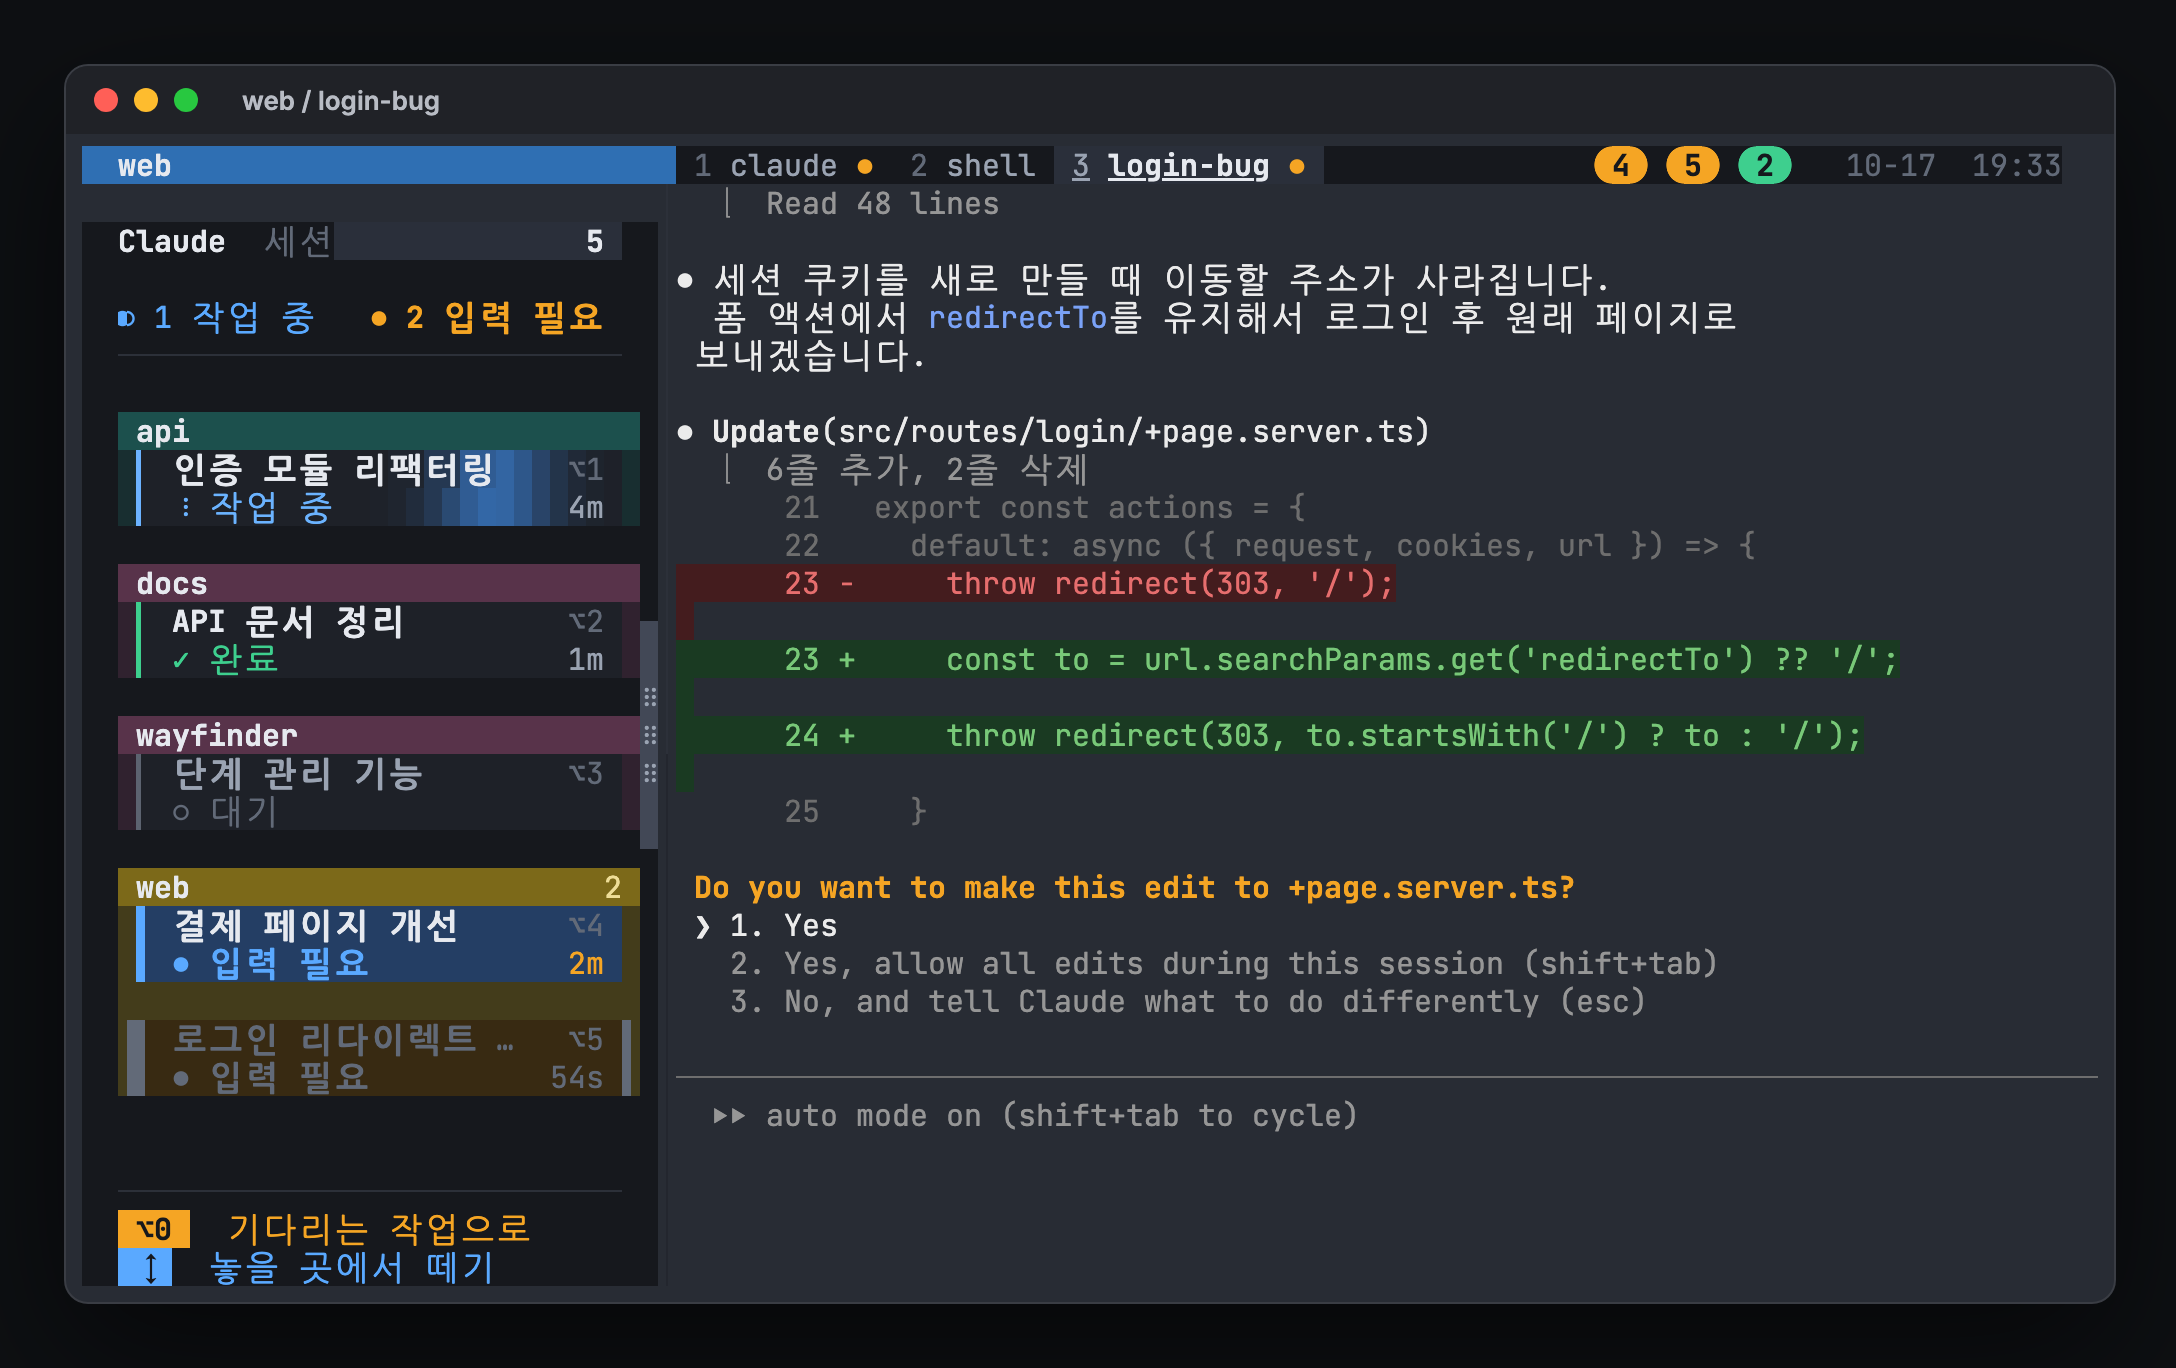
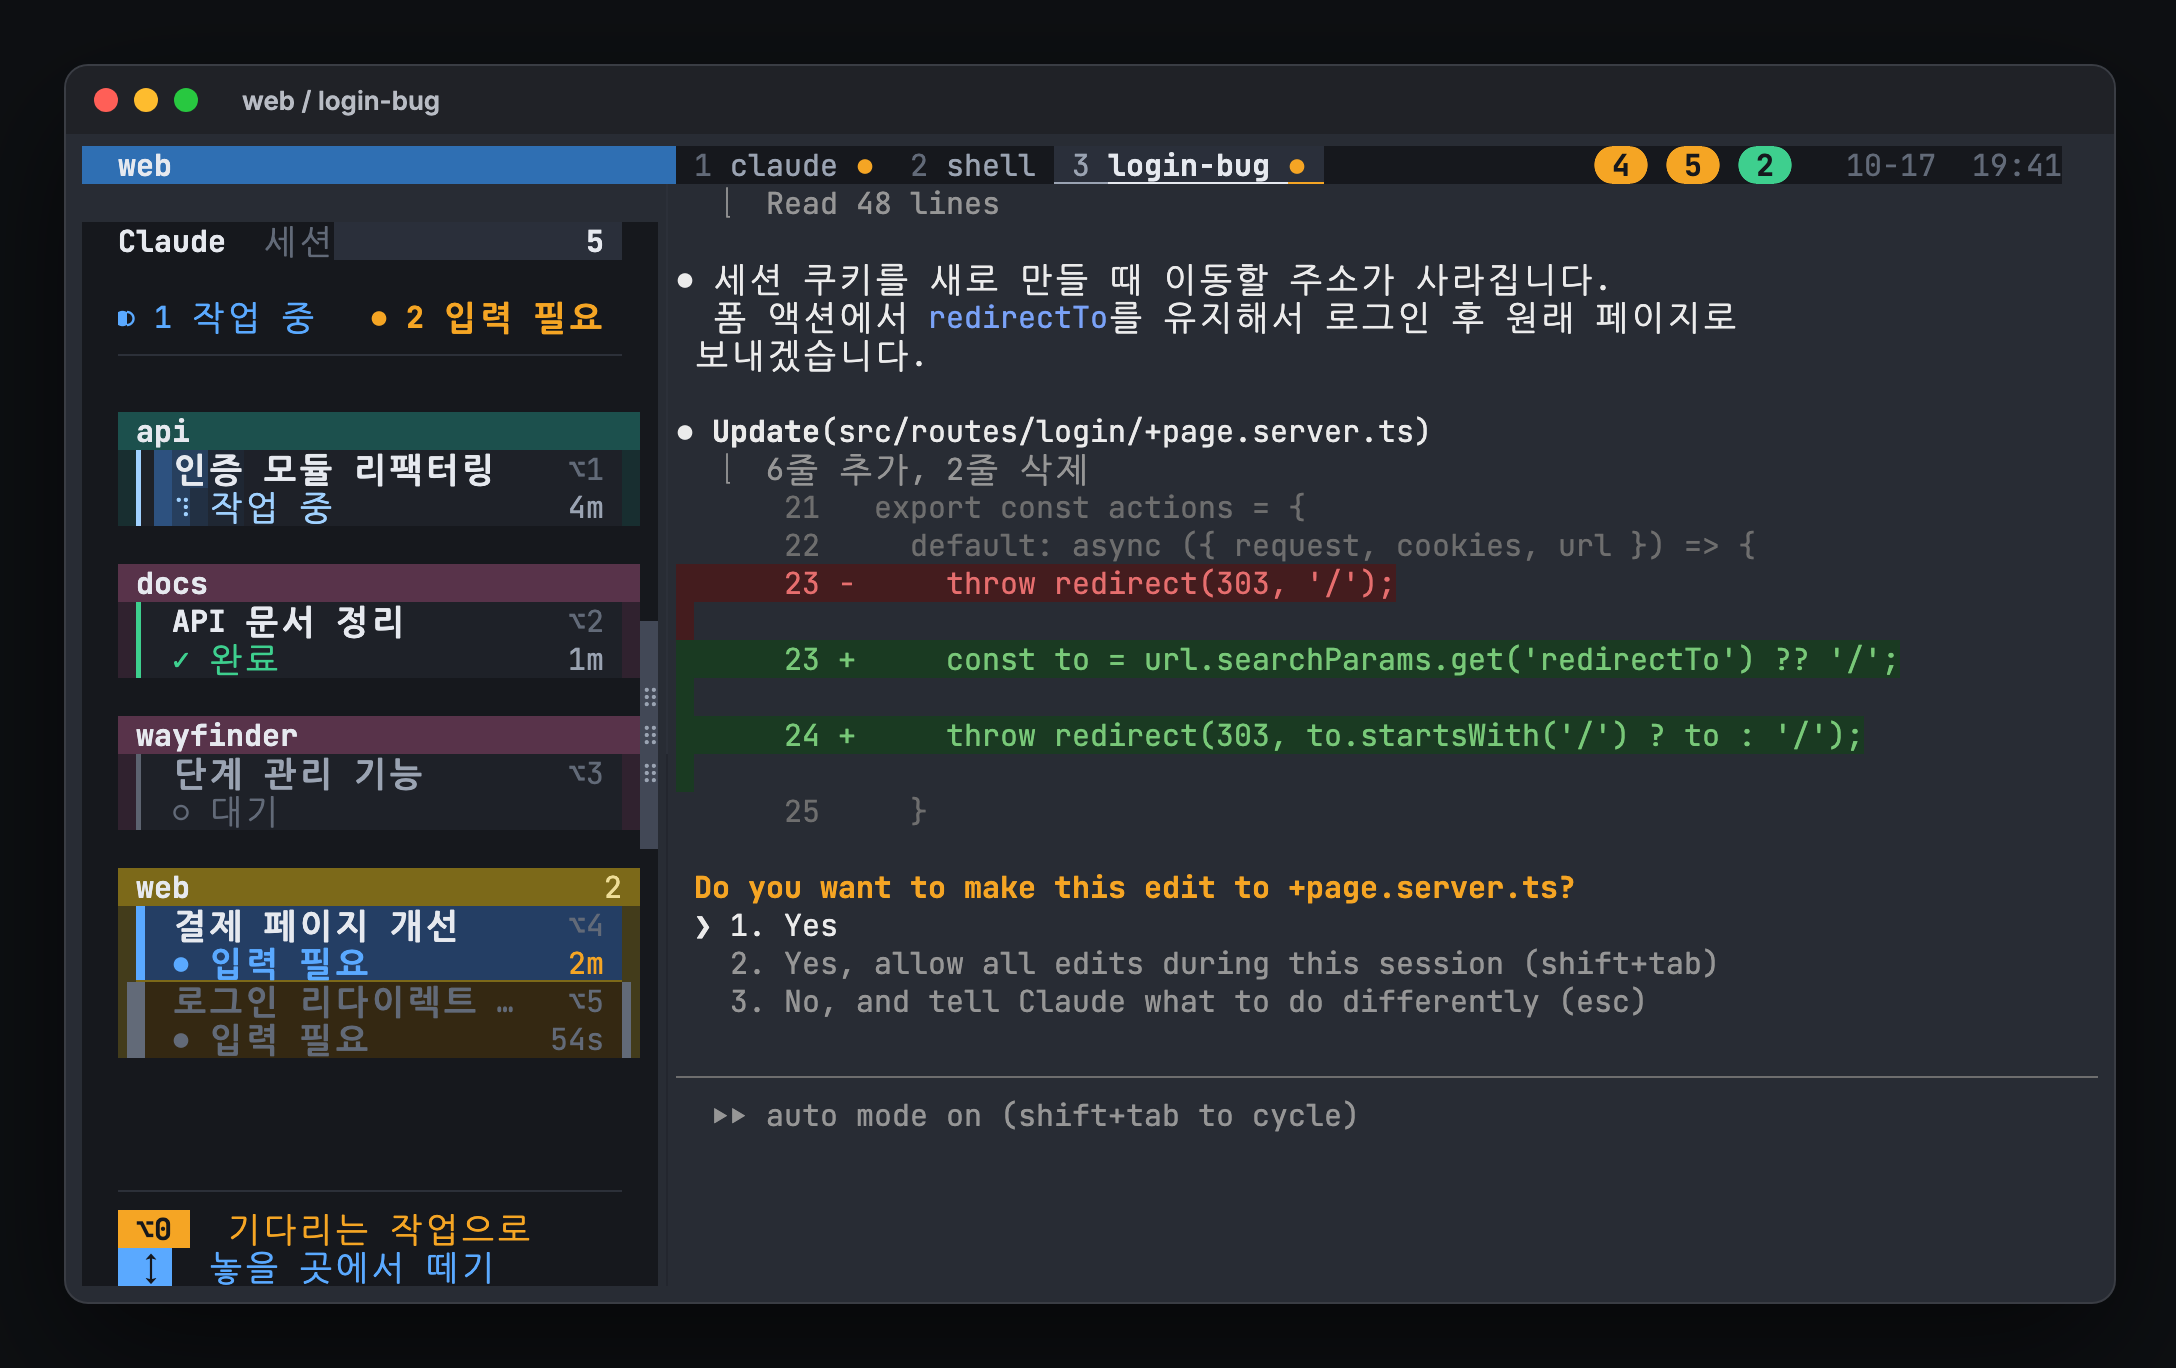
Sidebar: no blank row between cards of a project, a thin line instead
Cards of one project sit together; an underline in the project's header
colour under each card (but the last) tells them apart. The guide mockup
and screenshots follow; ansi2html draws underlines and their colour.

Claude-Session: https://claude.ai/code/session_01DeGU8b5o6dBWL7LV6J71n7

diff --git a/docs/guide.html b/docs/guide.html
@@ -249,11 +249,13 @@ ul { margin: 0; padding-left: 1.2em; display: grid; gap: 4px; max-width: 65ch; }
 .side2 .sum { padding: 8px 12px 8px; display: flex; gap: 12px; border-bottom: 1px solid #2c3039; margin: 0 12px; padding-inline: 0; }
 .side2 .sum .r { color: #5aa9ff; } .side2 .sum .w { color: #f5a524; font-weight: 700; }
 .side2 .bx { background: color-mix(in srgb, var(--h) 12%, #16181d); margin: 10px 12px 0; padding-bottom: 5px; }
+.side2 .bx .cd + .cd { box-shadow: inset 0 1px 0 color-mix(in srgb, var(--h) 30%, #16181d); }
+.side2 .bx .cd + .cd.sel { box-shadow: -4px 0 0 #e1e6f0, 4px 0 0 #e1e6f0, inset 0 1px 0 color-mix(in srgb, var(--h) 30%, #16181d); }
 .side2 .bx.cur { background: color-mix(in srgb, var(--h) 20%, #16181d); }
 .side2 .pj { display: flex; align-items: center; padding: 1px 8px; margin-bottom: 5px; color: #e6e9ef; font-weight: 700; background: color-mix(in srgb, var(--h) 30%, #16181d); }
 .side2 .bx.cur .pj { background: color-mix(in srgb, var(--h) 45%, #16181d); }
 .side2 .pj span { margin-left: auto; color: color-mix(in srgb, var(--h) 40%, #e6e9ef); font-weight: 400; }
-.side2 .cd { margin: 0 8px 5px; display: grid; grid-template-columns: 1fr auto; column-gap: 6px; padding: 3px 8px; background: #1e2128; border-left: 2px solid #5c6370; color: #e6e9ef; }
+.side2 .cd { margin: 0 8px; display: grid; grid-template-columns: 1fr auto; column-gap: 6px; padding: 3px 8px; background: #1e2128; border-left: 2px solid #5c6370; color: #e6e9ef; }
 .side2 .cd .t { font-weight: 700; overflow: hidden; text-overflow: ellipsis; white-space: nowrap; }
 .side2 .cd b { color: #626a78; font-weight: 400; }
 .side2 .cd .a { color: #9aa3b2; }
@@ -379,7 +381,7 @@ ul { margin: 0; padding-left: 1.2em; display: grid; gap: 4px; max-width: 65ch; }
       </div>
       <p><kbd>Option</kbd>+번호를 누르면 그 Claude로 바로 갑니다. 프로젝트가 달라도 한 번에 이동합니다. 사이드바의 타일을 클릭해도 됩니다.</p>
       <p><kbd>Option</kbd>+<kbd>0</kbd>은 가장 오래 기다린 Claude로 갑니다. 주황색 항목이 없으면 끝났는데 아직 안 본 초록색 항목으로 갑니다. 이 키만 반복해서 누르면 기다리는 작업을 차례로 처리할 수 있습니다.</p>
-      <p class="result">작업 중인 카드는 밝은 빛 띠가 계속 훑고 지나가고 스피너가 돕니다. 입력이 필요한 카드는 호박색으로 깜빡입니다. 맨 위 창 목록에서도 작업 중인 창 옆에 스피너가 돕니다. 번호는 프로젝트 이름순으로 매겨지고 작업이 바뀌어도 그대로라서 손에 익습니다. 타일 아랫줄에 상태와 경과 시간이 보여서 무엇을 먼저 볼지 정할 수 있습니다. 각 프로젝트는 프로젝트 색 머리 띠가 달린 상자로 묶입니다. 사이드바를 넓히면 상자가 2열, 3열로 늘어나고, 그래도 세로로 다 들어가지 않으면 카드 사이 빈 줄을 줄이고, 그다음엔 마우스 휠로 스크롤합니다. 위나 아래에 더 있으면 구분선 끝에 ▲ ▼가 보이고, 스크롤 위치는 모든 창이 함께 써서 다른 작업으로 옮겨도 그대로입니다. 사이드바가 거슬리면 <kbd>Ctrl</kbd>+<kbd>A</kbd> 다음 <kbd>b</kbd>로 숨기고 다시 보일 수 있습니다.</p>
+      <p class="result">작업 중인 카드는 밝은 빛 띠가 계속 훑고 지나가고 스피너가 돕니다. 입력이 필요한 카드는 호박색으로 깜빡입니다. 맨 위 창 목록에서도 작업 중인 창 옆에 스피너가 돕니다. 번호는 프로젝트 이름순으로 매겨지고 작업이 바뀌어도 그대로라서 손에 익습니다. 타일 아랫줄에 상태와 경과 시간이 보여서 무엇을 먼저 볼지 정할 수 있습니다. 각 프로젝트는 프로젝트 색 머리 띠가 달린 상자로 묶입니다. 사이드바를 넓히면 상자가 2열, 3열로 늘어나고, 같은 프로젝트의 카드는 빈 줄 없이 프로젝트 색 가는 선으로 나뉩니다. 세로로 다 들어가지 않으면 마우스 휠로 스크롤합니다. 위나 아래에 더 있으면 구분선 끝에 ▲ ▼가 보이고, 스크롤 위치는 모든 창이 함께 써서 다른 작업으로 옮겨도 그대로입니다. 사이드바가 거슬리면 <kbd>Ctrl</kbd>+<kbd>A</kbd> 다음 <kbd>b</kbd>로 숨기고 다시 보일 수 있습니다.</p>
     </div></div>
 
     <div class="st"><div>

diff --git a/docs/guide.en.html b/docs/guide.en.html
@@ -249,11 +249,13 @@ ul { margin: 0; padding-left: 1.2em; display: grid; gap: 4px; max-width: 65ch; }
 .side2 .sum { padding: 8px 12px 8px; display: flex; gap: 12px; border-bottom: 1px solid #2c3039; margin: 0 12px; padding-inline: 0; }
 .side2 .sum .r { color: #5aa9ff; } .side2 .sum .w { color: #f5a524; font-weight: 700; }
 .side2 .bx { background: color-mix(in srgb, var(--h) 12%, #16181d); margin: 10px 12px 0; padding-bottom: 5px; }
+.side2 .bx .cd + .cd { box-shadow: inset 0 1px 0 color-mix(in srgb, var(--h) 30%, #16181d); }
+.side2 .bx .cd + .cd.sel { box-shadow: -4px 0 0 #e1e6f0, 4px 0 0 #e1e6f0, inset 0 1px 0 color-mix(in srgb, var(--h) 30%, #16181d); }
 .side2 .bx.cur { background: color-mix(in srgb, var(--h) 20%, #16181d); }
 .side2 .pj { display: flex; align-items: center; padding: 1px 8px; margin-bottom: 5px; color: #e6e9ef; font-weight: 700; background: color-mix(in srgb, var(--h) 30%, #16181d); }
 .side2 .bx.cur .pj { background: color-mix(in srgb, var(--h) 45%, #16181d); }
 .side2 .pj span { margin-left: auto; color: color-mix(in srgb, var(--h) 40%, #e6e9ef); font-weight: 400; }
-.side2 .cd { margin: 0 8px 5px; display: grid; grid-template-columns: 1fr auto; column-gap: 6px; padding: 3px 8px; background: #1e2128; border-left: 2px solid #5c6370; color: #e6e9ef; }
+.side2 .cd { margin: 0 8px; display: grid; grid-template-columns: 1fr auto; column-gap: 6px; padding: 3px 8px; background: #1e2128; border-left: 2px solid #5c6370; color: #e6e9ef; }
 .side2 .cd .t { font-weight: 700; overflow: hidden; text-overflow: ellipsis; white-space: nowrap; }
 .side2 .cd b { color: #626a78; font-weight: 400; }
 .side2 .cd .a { color: #9aa3b2; }
@@ -379,7 +381,7 @@ ul { margin: 0; padding-left: 1.2em; display: grid; gap: 4px; max-width: 65ch; }
       </div>
       <p><kbd>Option</kbd>+number jumps straight to that Claude, even in another project. Clicking a card does the same.</p>
       <p><kbd>Option</kbd>+<kbd>0</kbd> jumps to the Claude that has waited longest. With nothing amber, it goes to a finished green card you have not seen yet. Press it repeatedly to work through everything that is waiting.</p>
-      <p class="result">Running cards have a light band sweeping across and a spinner. Cards that need input pulse amber. The top window list shows a spinner next to running windows too. Numbers follow project names and stay put when states change, so they are easy to remember. The second line of each card shows the state and elapsed time, so you can decide what to look at first. Each project is a box with a header band in the project's color. Widen the sidebar and the boxes go into 2 or 3 columns; when they still do not fit, the blank rows between cards go first, then the list scrolls with the mouse wheel. ▲ ▼ at the end of a rule show more above or below, and every window shares the scroll position, so going to another task keeps the list where it was. To hide the sidebar, press <kbd>Ctrl</kbd>+<kbd>A</kbd> then <kbd>b</kbd>; press again to bring it back.</p>
+      <p class="result">Running cards have a light band sweeping across and a spinner. Cards that need input pulse amber. The top window list shows a spinner next to running windows too. Numbers follow project names and stay put when states change, so they are easy to remember. The second line of each card shows the state and elapsed time, so you can decide what to look at first. Each project is a box with a header band in the project's color. Widen the sidebar and the boxes go into 2 or 3 columns; cards of one project are split by a thin line in its color, with no blank row; when they do not fit, the list scrolls with the mouse wheel. ▲ ▼ at the end of a rule show more above or below, and every window shares the scroll position, so going to another task keeps the list where it was. To hide the sidebar, press <kbd>Ctrl</kbd>+<kbd>A</kbd> then <kbd>b</kbd>; press again to bring it back.</p>
     </div></div>
 
     <div class="st"><div>

diff --git a/docs/preview/ansi2html.py b/docs/preview/ansi2html.py
@@ -71,7 +71,7 @@ BOX = {"╭": (0, 1, 0, 1), "┌": (0, 1, 0, 1), "╮": (0, 1, 1, 0), "┐": (0,
 def parse(text):
     rows = []
     for line in text.split("\n"):
-        st = dict(fg=None, bg=None, bold=False, dim=False, it=False, ul=False, rev=False)
+        st = dict(fg=None, bg=None, bold=False, dim=False, it=False, ul=False, ulc=None, rev=False)
         cells = []
         for tok in re.split(r"(\x1b\[[0-9;:]*m)", line):
             if tok.startswith("\x1b["):
@@ -79,7 +79,7 @@ def parse(text):
                 i = 0
                 while i < len(ps):
                     p = ps[i]
-                    if p == 0: st.update(fg=None, bg=None, bold=False, dim=False, it=False, ul=False, rev=False)
+                    if p == 0: st.update(fg=None, bg=None, bold=False, dim=False, it=False, ul=False, ulc=None, rev=False)
                     elif p == 1: st["bold"] = True
                     elif p == 2: st["dim"] = True
                     elif p == 3: st["it"] = True
@@ -95,8 +95,9 @@ def parse(text):
                     elif 100 <= p <= 107: st["bg"] = pal256(p - 100 + 8)
                     elif p == 39: st["fg"] = None
                     elif p == 49: st["bg"] = None
-                    elif p in (38, 48):
-                        key = "fg" if p == 38 else "bg"
+                    elif p == 59: st["ulc"] = None
+                    elif p in (38, 48, 58):
+                        key = {38: "fg", 48: "bg", 58: "ulc"}[p]
                         if i + 1 < len(ps) and ps[i + 1] == 5: st[key] = pal256(ps[i + 2]); i += 2
                         elif i + 1 < len(ps) and ps[i + 1] == 2: st[key] = tuple(ps[i + 2:i + 5]); i += 4
                     i += 1
@@ -119,13 +120,14 @@ def render(rows, cols, title):
             if s["dim"]: fg = tuple(int(c * 0.6 + b * 0.4) for c, b in zip(fg, bg))
             shape = block(ch, fg, bg)
             style = [f"width:{w * CW}px"]
+            if s["ul"]:     # underline as a 1px line at the cell bottom, also under block shapes / 칸 아래 1px 선 (도형 칸에도)
+                style.append(f"box-shadow:inset 0 -1px 0 {css(s['ulc'] or fg)}")
             if shape:
                 style.append(f"background:{shape}"); txt = ""
             else:
                 style.append(f"background:{css(bg)};color:{css(fg)}")
                 if s["bold"]: style.append("font-weight:700")
                 if s["it"]: style.append("font-style:italic")
-                if s["ul"]: style.append("text-decoration:underline")
                 # symbols (●○◐✓⠿❯⎿ …) from Menlo: web fonts draw some of them two cells wide
                 # 기호는 Menlo 로: 웹 글꼴은 일부 기호를 두 칸 폭으로 그려 반쪽만 보인다
                 if ord(ch) > 127 and w == 1 and not ("\uac00" <= ch <= "\ud7a3") and ch not in "←→↑↓↕":

diff --git a/CHANGELOG.md b/CHANGELOG.md
@@ -1,5 +1,10 @@
 # Changelog
 
+## Unreleased
+
+- Cards of one project sit together with no blank row between them; a thin
+  line in the project's color under each card tells them apart
+
 ## 0.1.21 — 2026-10-17
 
 - The card of the window you are in stands out more: a lighter background and a
